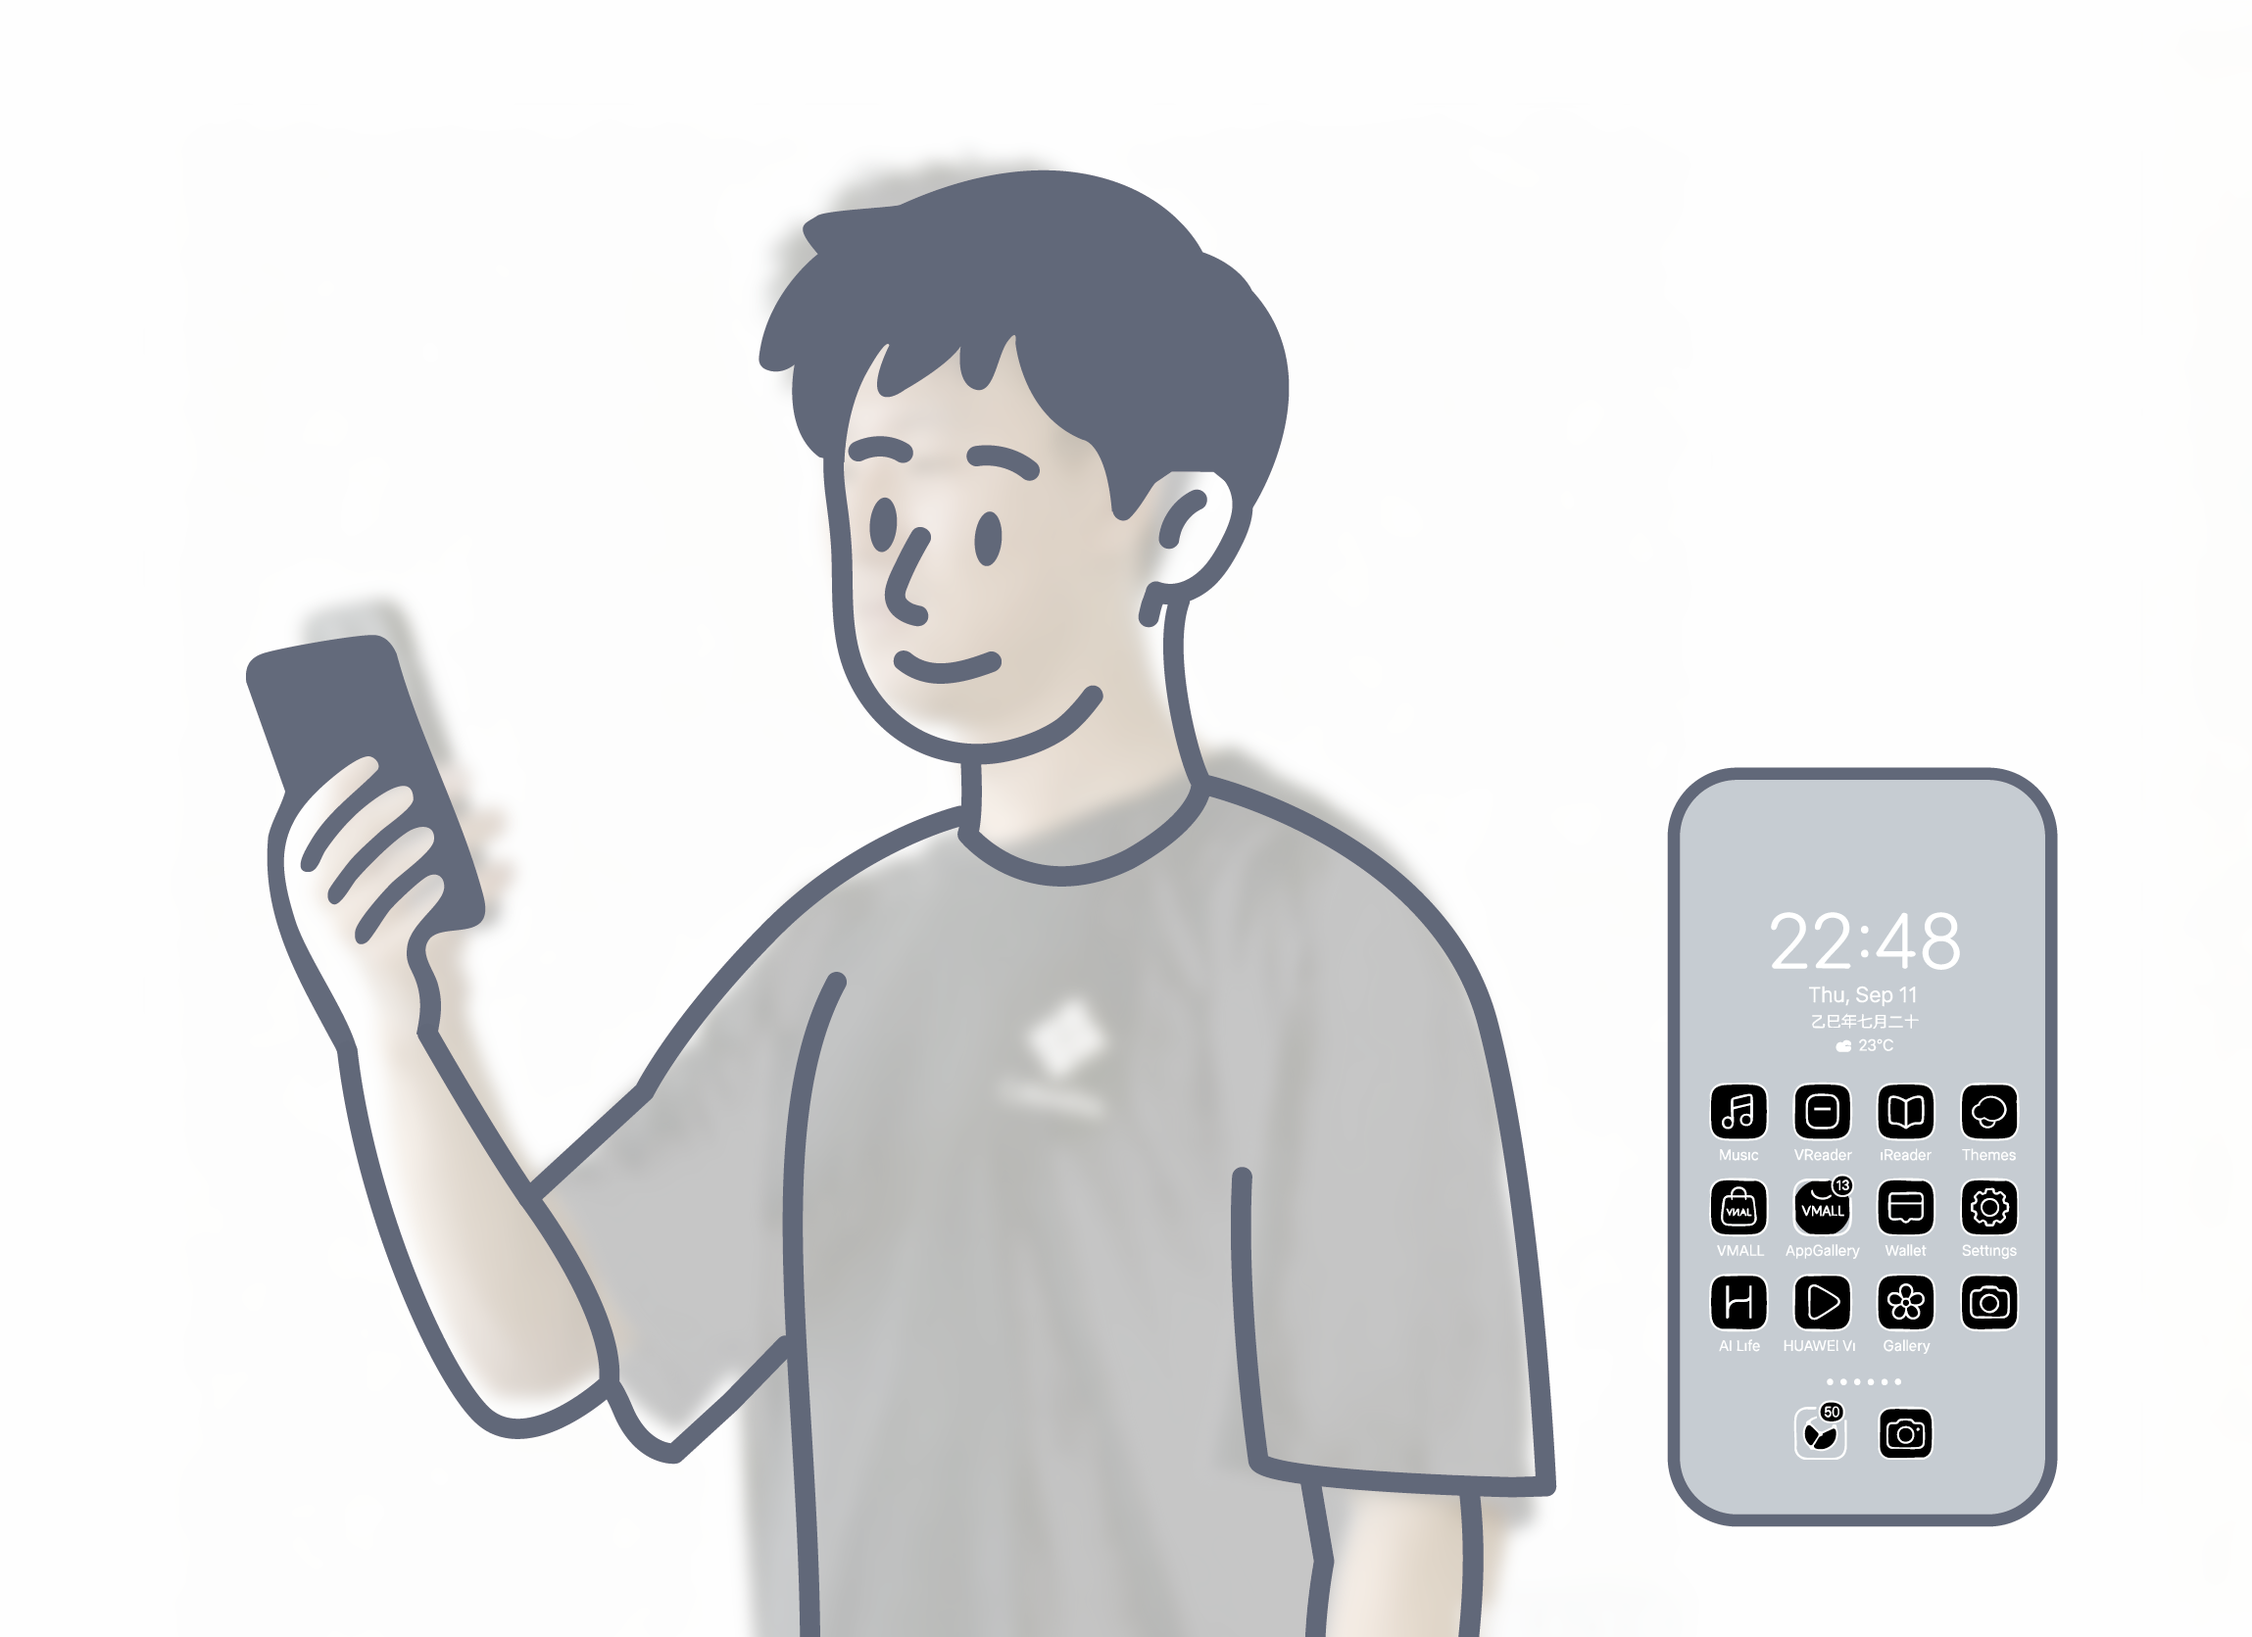
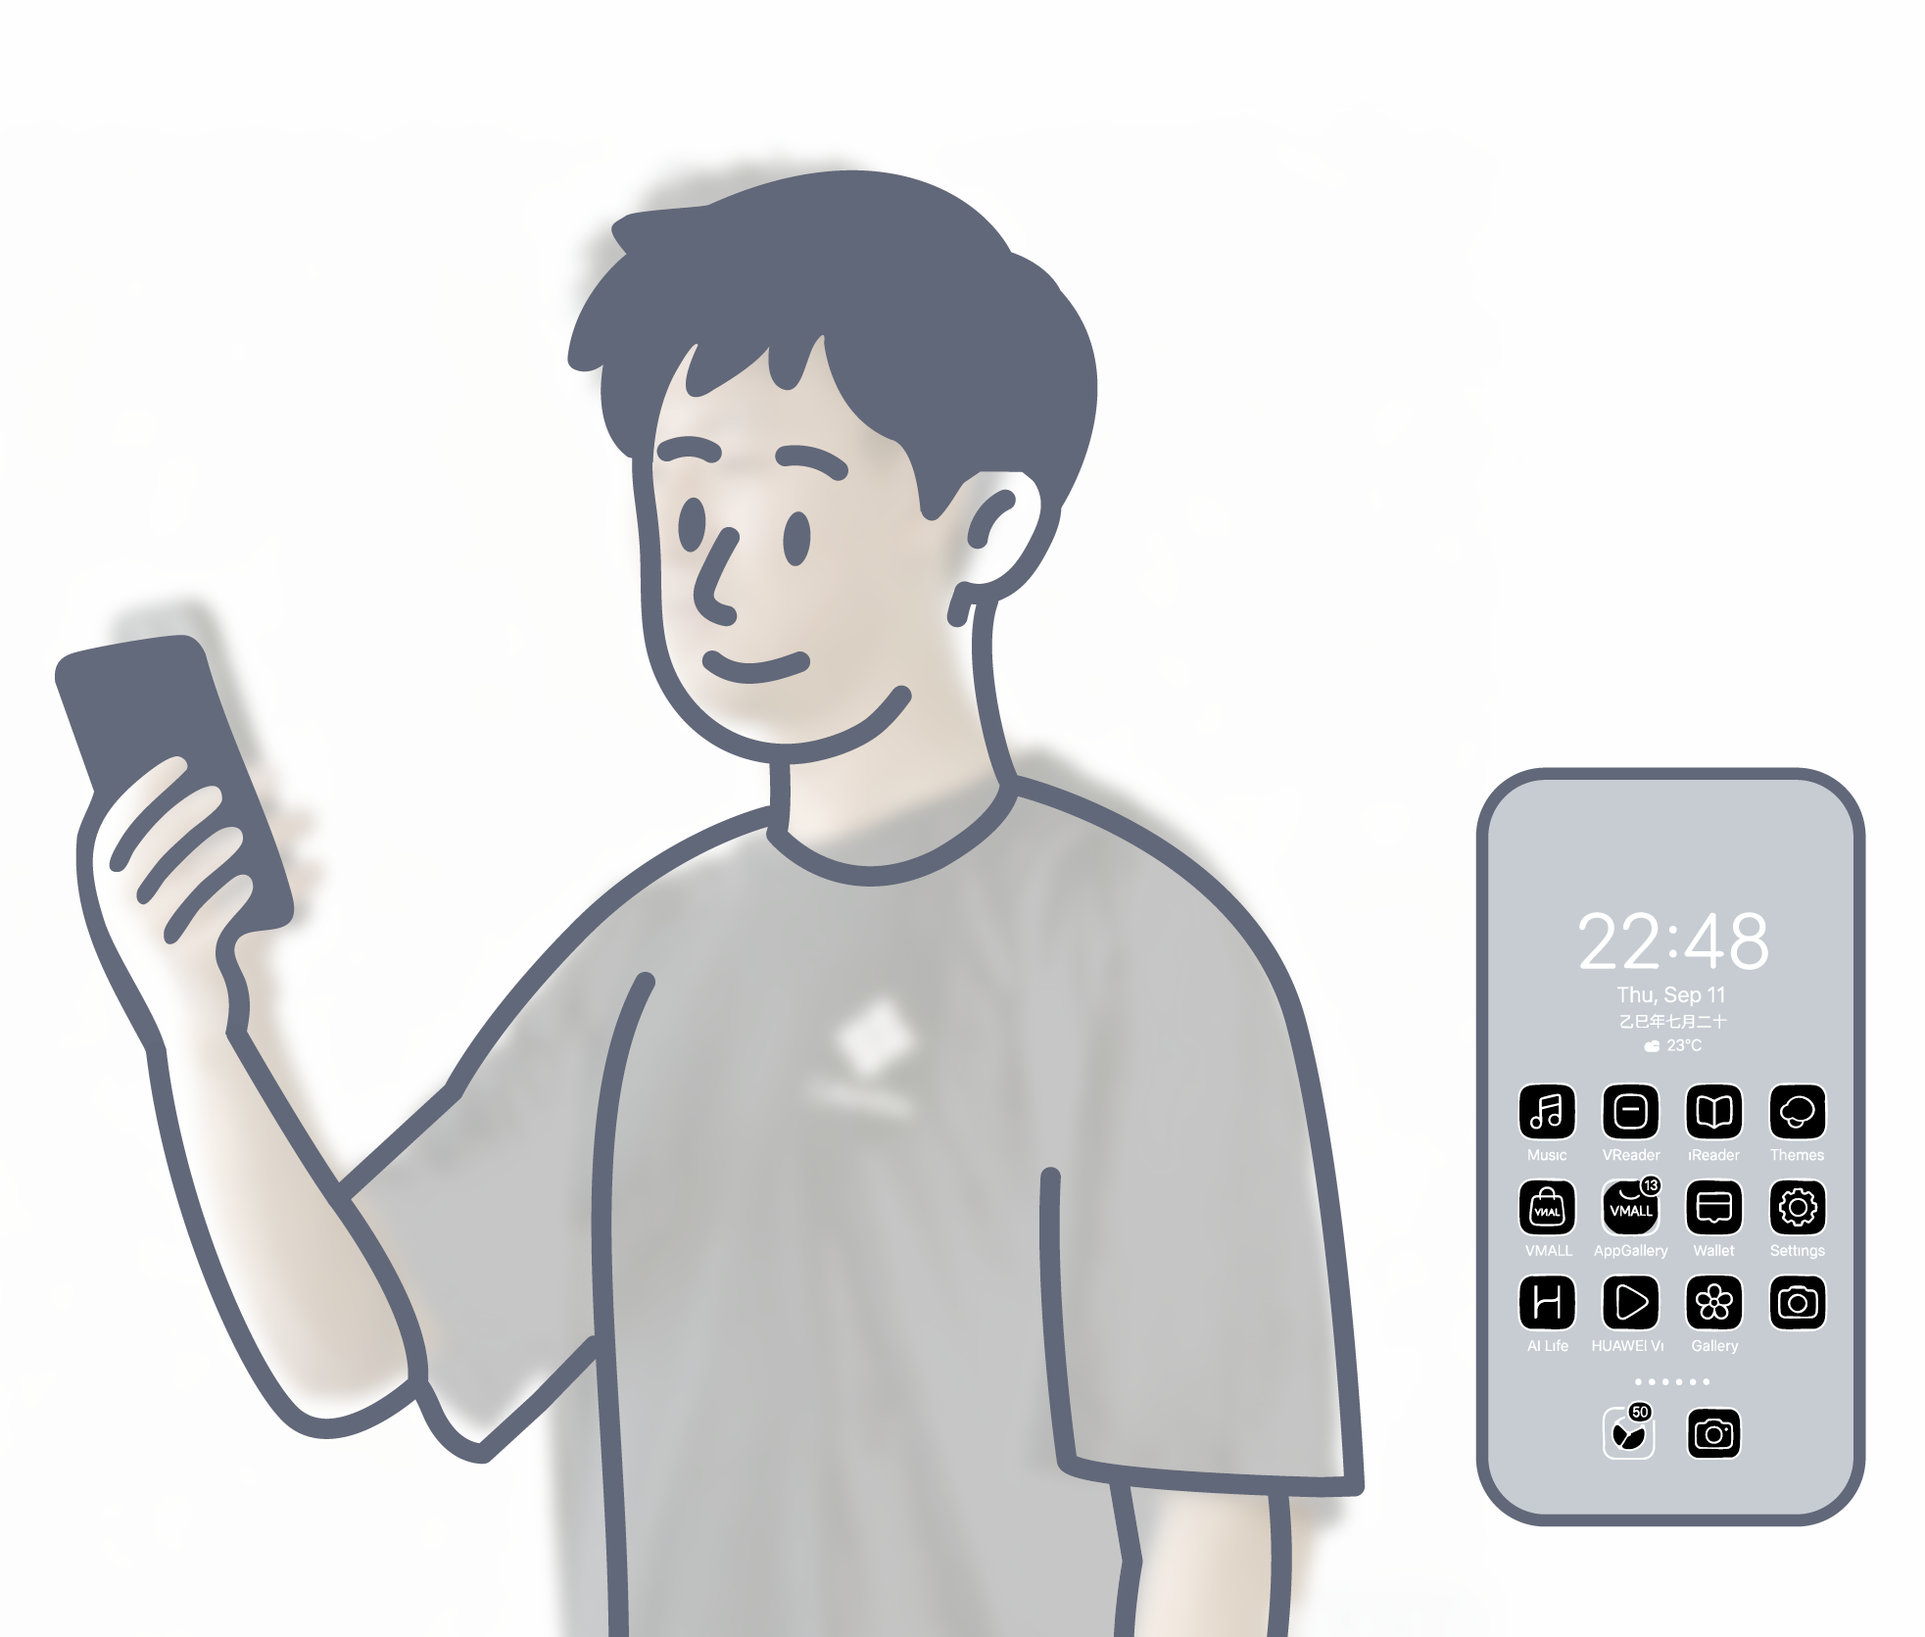
update keepout and readme

diff --git a/README.md b/README.md
@@ -26,19 +26,20 @@ You may also see any lint errors in the console.
     "predeploy": "npm run build",
     "deploy": "gh-pages -d build -r https://github.com/CJunette/cjunette.github.io.git -b gh-pages"
 
-
-### use the following to add the dependency to the project. You need to update the node.js if necessary.
-`yarn add gh-pages -D`
-
 ---
 
 ## For deploying to github pages (or updating content on github pages):
 
-### Use the following code to deploy the code to github.
+### Use the following to add the dependency to the project. You need to update the node.js if necessary. (This is only necessary at first time or when you add new files.)
+
+`yarn add gh-pages -D`
+
+### Use the following code to deploy the code to github. 
 
 `yarn deploy`
 
 ### Click github page - setting - pages, launch the site using the branch "gh-pages".
+
 ### If you use custom domain of github, you need to update it every time you deploy.
 
 ---
